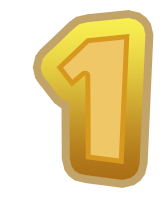
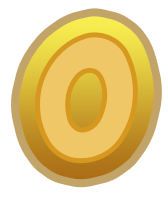
BETA v0.2.1: Added Par System

diff --git a/Game.java b/Game.java
@@ -177,19 +177,41 @@ public class Game extends Canvas implements Runnable {
     };
     gui.addObject(new Menu(levels.getFirst().getName(), pauseMenu));
     gui.addObject(new Debug(player));
+    gui.addObject(new Counter(168, 99));
 
   }
 
   public void loadLevel(String levelName){
     levels.add(new LevelData(levelName));
     handler.gameObjects.addAll(levels.get(currentLvl).getObjects());
+    handler.par = levels.get(currentLvl).getPar();
   }
 
   public void nextLevel(){
-    gui.addObject(new Animation(Animations.SUCCESS));
+    int stroke = handler.strokes;
+    int par = handler.par;
+    if(stroke == 1){
+      gui.addObject(new Animation(Animations.HOLE_IN_ONE));
+    } else if(par-stroke==3){ //ALBATROSS
+      gui.addObject(new Animation(Animations.ALBATROSS));
+    } else if(par-stroke==2){ //EAGLE
+      gui.addObject(new Animation(Animations.EAGLE));
+    } else if(par-stroke==1){ //BIRDIE
+      gui.addObject(new Animation(Animations.BIRDIE));
+    } else if(stroke == par){ //PAR
+      gui.addObject(new Animation(Animations.PAR));
+    } else if(par-stroke==-1){ //BOGEY
+      gui.addObject(new Animation(Animations.BOGEY));
+    } else if(par-stroke==-2){ //DOUBLE BOGEY
+      gui.addObject(new Animation(Animations.DOUBLE_BOGEY));
+    } else if(stroke > par){ //FAIL
+      gui.addObject(new Animation(Animations.FAIL));
+    } else if(stroke < par){ //SUCCESS
+      gui.addObject(new Animation(Animations.SUCCESS));
+    }
     unloadLevel();
     currentLvl++;
-    if(currentLvl<3){
+    if(currentLvl<4){
       loadLevel("level"+currentLvl+".lvl");
     }
   }
@@ -200,7 +222,11 @@ public class Game extends Canvas implements Runnable {
   }
 
   public String getLevelName(){
-    return levels.get(currentLvl).getName();
+    if(currentLvl <= levels.size()-1){
+      return levels.get(currentLvl).getName();
+    } else {
+      return "Invalid Level";
+    }
   }
 
   public static void main(String[] args) {

diff --git a/Counter.java b/Counter.java
@@ -1,0 +1,48 @@
+import java.awt.*;
+import java.awt.image.BufferedImage;
+
+public class Counter extends GameObject {
+
+  private int w,h;
+
+  private BufferedImage[] nums = new BufferedImage[10];
+  private BufferedImage ones,tens;
+
+  private int stroke,d;
+
+  public Counter(int w, int h){
+    super(Game.gameInstance.size.width-w-40, 30, ID.GUI);
+    this.w = w;
+    this.h = h;
+    for(int i = 0; i<10; i++){
+      nums[i] = Game.gameInstance.bil.loadImage("assets/numbers/"+i+".png");
+    }
+  }
+
+  public void tick(){
+    stroke = Game.gameInstance.handler.strokes;
+    if(stroke>=10){
+      d = 2;
+      tens = nums[stroke/10];
+      ones = nums[stroke%10];
+    } else {
+      d = 1;
+      tens = null;
+      ones = nums[stroke];
+    }
+  }
+
+  public void render(Graphics g){
+    if(d <= 1){
+      g.drawImage(ones, getX()+(w/2), getY(), w/2, h, null);
+    } else if(d > 1){
+      g.drawImage(tens, getX()+15, getY(), w/2, h, null);
+      g.drawImage(ones, getX()+(w/2), getY(), w/2, h, null);
+    }
+  }
+
+  public Rectangle getBounds(){
+    return new Rectangle(getX(), getY(), w, h);
+  }
+
+}

diff --git a/LevelData.java b/LevelData.java
@@ -7,6 +7,7 @@ public class LevelData {
   private String name;
   private int[] spawn = new int[2];
   private int[] flag = new int[2];
+  private int par;
   private LinkedList<Wall> walls = new LinkedList<Wall>();
 
   public LevelData(String file){
@@ -20,6 +21,7 @@ public class LevelData {
     try {
       Scanner readLvl = new Scanner(file);
       name = readLvl.nextLine();
+      par = Integer.parseInt(readLvl.nextLine());
       String[] tspawn = readLvl.nextLine().split(",", 2);
       spawn[0] = Integer.parseInt(tspawn[0]);
       spawn[1] = Integer.parseInt(tspawn[1]);
@@ -48,5 +50,9 @@ public class LevelData {
 
   public String getName(){
     return this.name;
+  }
+
+  public int getPar(){
+    return par;
   }
 }

diff --git a/Ball.java b/Ball.java
@@ -96,6 +96,7 @@ public class Ball extends GameObject{
       oldy = y;
       forces.addAtAngle(-magnitude/4, angle);
       handler.setStroke(handler.getStroke()+1);
+      System.out.println(handler.getStroke());
       StrengthMeter.hide();
       jumpable = false;
     }

diff --git a/Handler.java b/Handler.java
@@ -7,6 +7,7 @@ public class Handler {
   public LinkedList<GameObject> gameObjects;
 
   public int strokes = 0;
+  public int par = 0;
 
   // Boolean list to store keys pressed state
   private Key[] keys = {
